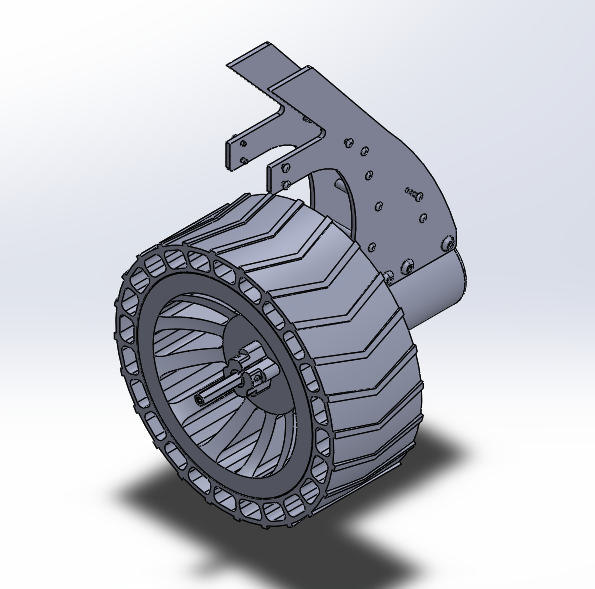
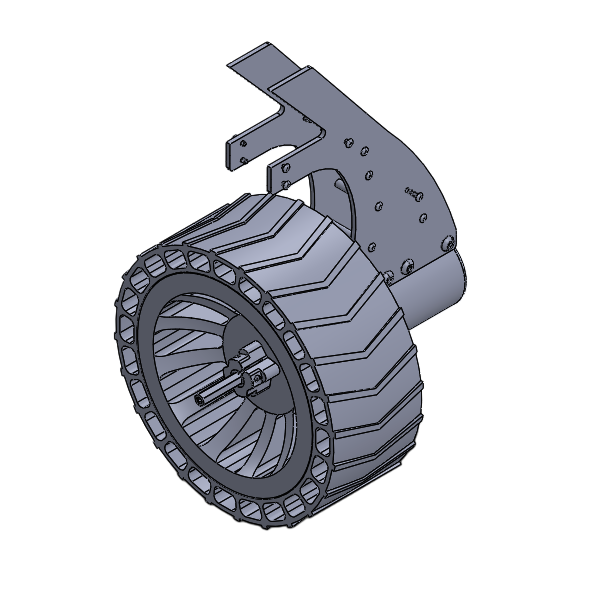
updating my work, adding columns and editing image

diff --git a/static/style-project-page.css b/static/style-project-page.css
@@ -1,0 +1,56 @@
+body {
+    font-family: 'Bebas Neue', sans-serif;  /* sets the font family to Bebas Neue */
+    background-color: white;
+    color: black;
+}
+
+nav {
+    text-align: center;  /* centers the text vertically */
+}
+
+nav a {
+    color: black;                 /* sets the color of the link to white */
+    font-family: 'Bebas Neue', sans-serif;
+    text-decoration: none;          /* removes the underline */            
+    padding: 10px 100px;
+}
+
+h1 {
+    color: black;
+    font-family: 'Bebas Neue', sans-serif;  /* sets the font family to Bebas Neue */
+    text-align: center;
+    font-size: 40px;
+    margin-top: 30px;
+    margin-bottom: 1px;
+}
+
+h2 {
+    color: black;
+    font-family: 'Bebas Neue', sans-serif;
+    text-align: center;
+    font-size: 20px;
+    margin-top: 0.25px;
+}
+
+p2 {
+    text-align: center;
+    font-family: 'Bebas Neue', sans-serif;
+}
+
+.project-container { /* container for the project sections */
+    display: flex;
+}
+
+.project-left {  /* container for the left section of the project */
+    width: 60%;
+}
+
+.project-right { /* container for the right section of the project */
+    width: 40%;
+    text-align: center;
+    margin-top: 30px;
+}
+
+.project-right img{
+    width: 75%;
+}

diff --git a/templates/projects.html b/templates/projects.html
@@ -2,7 +2,7 @@
 
 <html>
     <head>
-        <link rel="stylesheet" href="/static/style.css">
+        <link rel="stylesheet" href="/static/style-project-page.css">
         <link href="https://fonts.googleapis.com/css2?family=Bebas+Neue&family=Inter:wght@400;700&display=swap" rel="stylesheet">  <!-- importing Bebas Neue as a font family -->
         <title>PROJECTS</title>
     </head>
@@ -13,6 +13,8 @@
             <a href="/about">About Me</a>
             <a href="/projects">Projects</a>
         </nav>
+
+        <h1>- PROJECTS -</h1>
 
         <div class="project-container">
             <div class="project-left">
